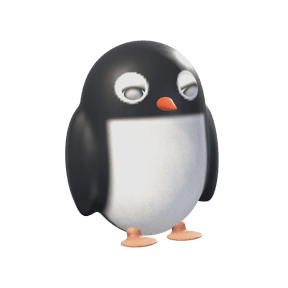
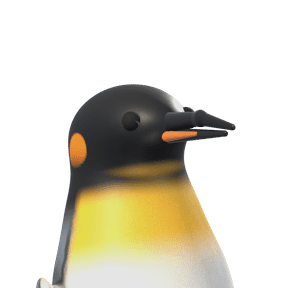
Pinguin als neues Modell: Koenigspinguin-Brustbild
Statt Kegelfigur mit Fuessen ein Brustbild mit echter Anatomie: gestreckter
Kopf, langer geschlossener Schnabel mit orangem Plaettchen, Ohrfleck als
Komma, goldene Kehle, silbergrauer Ruecken, kurzes Gefieder. Ausdruck ueber
die Kopfhaltung, weil schwarze Lider auf schwarzem Kopf nichts tragen.
nase() mit waehlbarer Rasteraufloesung (der Schnabel zackte), Zuschnitt
weiter gefasst, Rahmen neu gemessen.

pruef-alles 9/9.

diff --git a/tools/figuren_rendern/Tiere.swift b/tools/figuren_rendern/Tiere.swift
@@ -259,9 +259,10 @@ func augenEinsetzen(_ wurzel: SCNNode, _ kopf: Koerper, x: Float, y: Float, r: C
 func lider(_ x: Float, _ y: Float, _ z: Float, _ r: Float, weich: Float = 0.10) -> [Form] {
     [-1, 1].map { s in Form(art: .ellipsoid(V(r * 1.15, r * 0.45, r * 0.6)), mitte: V(x * s, y + r * 0.78, z), weich: weich) }
 }
-func nase(_ wurzel: SCNNode, _ formen: [Form], farbe: V, lack: Float = 0.9, rauheit: Float = 0.25) {
+// `n` = Rasterpunkte; schlanke Teile (Pinguinschnabel) brauchen ein feineres Raster, sonst zackt die Kante.
+func nase(_ wurzel: SCNNode, _ formen: [Form], farbe: V, lack: Float = 0.9, rauheit: Float = 0.25, n: Int = 170) {
     let k = Koerper(formen: formen, farbe: { _, _ in farbe })
-    wurzel.addChildNode(glanzKoerper(k, grenze: 2.2, n: 170, rauheit: rauheit, lack: lack))
+    wurzel.addChildNode(glanzKoerper(k, grenze: 2.2, n: n, rauheit: rauheit, lack: lack))
 }
 // Kleine glatte Teile (Zaehne, Zungen), fuer die das Raster der Abstandsfelder zu grob ist.
 func perle(_ mitte: V, _ radien: V, farbe: NSColor, rauheit: CGFloat = 0.3) -> SCNNode {
@@ -1206,31 +1207,69 @@ func vogelFormen(kopf: V = V(0.72, 0.64, 0.68), leib: V = V(0.88, 1.05, 0.80), f
 }
 
 func pinguin() -> (SCNNode, Float, V) {
-    // Pinguin: schwarzer Kopf und Ruecken, weisser Augenring, orangeroter Schnabel, weisser Bauch mit klarer Grenze.
-    let schwarz = hex("#1E2126"), weiss = hex("#F1F1EE"), orange = hex("#E2552A")
-    var formen = vogelFormen(kopf: V(0.70, 0.62, 0.66), leib: V(0.86, 1.10, 0.78))
-    formen.append(Form(art: .ellipsoid(V(0.16, 0.62, 0.10)), mitte: V(-0.84, -0.42, 0.05), weich: 0.10))
-    formen.append(Form(art: .ellipsoid(V(0.16, 0.62, 0.10)), mitte: V(0.84, -0.42, 0.05), weich: 0.10))
-    var k = Koerper(formen: formen, farbe: { p, n in
-        var c = farbeMitRauschen(schwarz, p, 0.06)
-        // weisser Bauch vorn, unterhalb des Kopfes
-        // Klare Grenze: weisser Bauch bis zur Kehle, schwarzer Ruecken und Kopf (am Bild: vorher verwaschen).
-        c = mische(c, farbeMitRauschen(weiss, p, 0.03), glatt(0.16, 0.08, p.y) * glatt(0.12, 0.30, n.z) * glatt(0.66, 0.56, abs(p.x)))
-        // Weisser Augenring wie beim Adeliepinguin; das Band ueber den Scheitel las sich als Streifen.
-        let ring = max(region(p, V(-0.33, 0.48, 0.52), V(0.20, 0.20, 0.30), 0.04), region(p, V(0.33, 0.48, 0.52), V(0.20, 0.20, 0.30), 0.04))
-        c = mische(c, weiss, ring)
+    // Runde 191, neues Modell (Auftrag des Inhabers: realistischer, „egal was es braucht"): Koenigspinguin als
+    // Brustbild statt Kegelfigur. Gestreckter Kopf mit flach abfallender Stirn, langer schlanker Schnabel
+    // (unten mit orangem Plaettchen), orange Ohrflecken, goldene Kehle in die weisse Brust, silbergrauer Ruecken.
+    let schwarz = hex("#15171A"), silber = hex("#7D8894"), weiss = hex("#F5F4EF")
+    let gold = hex("#F3BE48"), orange = hex("#F08B2C")
+    var kopf = Koerper(formen: [
+        Form(art: .ellipsoid(V(0.52, 0.48, 0.80)), mitte: V(0, 0.30, -0.02)),
+        // Gesicht nach vorn-unten: die Stirn faellt flach in den Schnabel ab (gestreckter, flacher Kopf).
+        Form(art: .ellipsoid(V(0.34, 0.27, 0.46)), mitte: V(0, 0.22, 0.50), weich: 0.30),
+    ], farbe: { p, n in
+        var c = farbeMitRauschen(schwarz, p, 0.05)
+        // Ohrfleck: ein Tropfen hinter dem Auge, oben breit, zum Hals hin schmal.
+        for sx: Float in [-1, 1] {
+            // Ohrfleck als Komma: oben breit hinter dem Auge, unten schmal zum Hals.
+            let ohr = max(region(p, V(0.44 * sx, 0.16, -0.06), V(0.20, 0.20, 0.24), 0.05),
+                          max(region(p, V(0.40 * sx, -0.08, 0.02), V(0.14, 0.18, 0.15), 0.05), region(p, V(0.36 * sx, -0.32, 0.14), V(0.11, 0.22, 0.14), 0.05)))
+            c = mische(c, farbeMitRauschen(orange, p, 0.04), ohr)
+        }
+        // Goldene Kehle vorn unter dem Schnabel.
+        c = mische(c, farbeMitRauschen(gold, p, 0.04), glatt(-0.08, -0.20, p.y) * glatt(0.25, 0.55, n.z))
         return c
-    }, rauheit: 0.48, fell: 0.03)
-    // Gefieder: sehr kurze Fellschalen statt glatter Haut (Auftrag „mehr Fotorealismus“).
-    k.haar = haarKarte(k, FellKarte(kopf: 0.012, rumpf: 0.014, nase: V(0, 0.30, 0.80), schnauze: 0.2,
-        augen: augenStellen(k, x: 0.33, y: 0.48), augenR: 0.15, braue: 0), braue: { _ in 0 })
-    k.fellArt = Fell(dichte: 170, dicke: 0.46, aufrecht: 0.18, neigung: 1.9, ursprung: V(0, 0.30, 0.80), wurzel: 0.80, spitze: 1.08, straehnen: 0.04, streuung: 0.06)
-    let w = SCNNode(); w.addChildNode(kopfKnoten(k, grenze: 1.9))
-    nase(w, [Form(art: .rundkegel(V(0, -0.12, 0.46), 0.16, 0.03), mitte: V(0, 0.32, 0.58), stauchung: V(1, 0.72, 1))], farbe: orange, lack: 0.4, rauheit: 0.4)
-    augenEinsetzen(w, k, x: 0.33, y: 0.48, r: 0.15, tiefe: 0.38, iris: NSColor(calibratedRed: 0.22, green: 0.12, blue: 0.06, alpha: 1), pupille: 0.62, aussen: 0.15, ausdruck: Ausdruck(oben: 0.05, unten: 0.08, funke: 1.6))
-    vogelFuesse(w, unten: -1.28, abstand: 0.30, vorn: 0.28, farbe: hex("#E89A7A"), dicke: 0.09, bein: 0.08, zehe: 0.30, breit: true)
-    w.eulerAngles = SCNVector3(0.02, 0.36, 0.06)
-    return (w, 8.2, V(0, 0.05, 0))
+    }, rauheit: 0.50, fell: 0.02)
+    kopf.haar = haarKarte(kopf, FellKarte(kopf: 0.012, rumpf: 0.016, nase: V(0, 0.20, 0.82), schnauze: 0.2,
+        augen: augenStellen(kopf, x: 0.30, y: 0.29), augenR: 0.10, braue: 0), braue: { _ in 0 })
+    kopf.fellArt = Fell(dichte: 180, dicke: 0.46, aufrecht: 0.18, neigung: 1.9, ursprung: V(0, 0.20, 0.82), wurzel: 0.82, spitze: 1.08, straehnen: 0.04, streuung: 0.05)
+    let leib: [Form] = [
+        Form(art: .ellipsoid(V(0.62, 0.72, 0.64)), mitte: V(0, -0.42, -0.10), weich: 0.35),
+        // Die Brust woelbt sich nach vorn — beim Koenigspinguin die goldene „Latz"-Flaeche.
+        Form(art: .ellipsoid(V(0.96, 1.36, 0.92)), mitte: V(0, -1.55, -0.16), weich: 0.35),
+        Form(art: .ellipsoid(V(0.12, 0.74, 0.30)), mitte: V(-0.94, -1.78, -0.30), drehung: simd_quatf(angle: 0.12, axis: V(0, 0, 1)), weich: 0.10),
+        Form(art: .ellipsoid(V(0.12, 0.74, 0.30)), mitte: V(0.94, -1.78, -0.30), drehung: simd_quatf(angle: -0.12, axis: V(0, 0, 1)), weich: 0.10),
+    ]
+    let k = brustbild(kopf, leib, farbe: { p, n in
+        // Ruecken silbergrau, nach oben zum Hals schwarz.
+        var c = mische(farbeMitRauschen(silber, p, 0.06), schwarz, glatt(-0.75, -0.30, p.y))
+        let vorn = glatt(0.10, 0.30, n.z)
+        // Dunkle Trennlinie zwischen Brust und Flanke.
+        c = mische(c, schwarz, glatt(0.02, 0.10, n.z) * glatt(0.22, 0.12, n.z) * glatt(-0.40, -0.80, p.y) * 0.8)
+        // Brust: oben golden, nach unten weiss.
+        let brust = mische(farbeMitRauschen(gold, p, 0.04), farbeMitRauschen(weiss, p, 0.03), glatt(-0.75, -1.25, p.y))
+        c = mische(c, brust, vorn * glatt(-0.20, -0.45, p.y))
+        // Der Ohrfleck laeuft seitlich am Hals hinunter zur goldenen Brust.
+        for sx: Float in [-1, 1] { c = mische(c, orange, region(p, V(0.34 * sx, -0.30, 0.10), V(0.12, 0.30, 0.14), 0.06) * 0.85) }
+        return c
+    })
+    let w = SCNNode(); w.addChildNode(brustKnoten(k))
+    // Oberschnabel lang und schlank, leicht abwaerts; Unterschnabel schwarz mit orangem Plaettchen an der Seite.
+    // Geschlossen und leicht abwaerts gebogen: zwei Stuecke, das vordere staerker geneigt.
+    nase(w, [Form(art: .rundkegel(V(0, -0.07, 0.62), 0.11, 0.06), mitte: V(0, 0.22, 0.86), stauchung: V(0.70, 1, 1), weich: 0.05),
+             Form(art: .rundkegel(V(0, -0.17, 0.46), 0.065, 0.028), mitte: V(0, 0.15, 1.48), stauchung: V(0.70, 1, 1), weich: 0.04)],
+         farbe: hex("#141416"), lack: 0.55, rauheit: 0.35, n: 360)
+    // Unterschnabel dicht darunter, mit dem orangen Plaettchen laengs an der Seite.
+    nase(w, [Form(art: .rundkegel(V(0, -0.16, 0.96), 0.075, 0.026), mitte: V(0, 0.11, 0.86), stauchung: V(0.72, 1, 1), weich: 0.03)],
+         farbe: hex("#1A1A1C"), lack: 0.5, rauheit: 0.4, n: 360)
+    nase(w, [Form(art: .rundkegel(V(0, -0.07, 0.50), 0.05, 0.02), mitte: V(-0.042, 0.095, 0.92), weich: 0.02),
+             Form(art: .rundkegel(V(0, -0.07, 0.50), 0.05, 0.02), mitte: V(0.042, 0.095, 0.92), weich: 0.02)],
+         farbe: hex("#F07A3A"), lack: 0.6, rauheit: 0.3, n: 360)
+    augenEinsetzen(w, kopf, x: 0.30, y: 0.29, r: 0.10, tiefe: 0.36, iris: NSColor(calibratedRed: 0.24, green: 0.13, blue: 0.08, alpha: 1), pupille: 0.62, aussen: 0.15, ausdruck: Ausdruck(oben: 0.06, unten: 0.04, funke: 1.5))
+    // Schwarze Lider auf schwarzem Kopf tragen keinen Ausdruck — beim Pinguin zeigt die Haltung die Stimmung:
+    // muede gesenkt, froh angehoben und leicht schraeg.
+    let haltung: (Float, Float) = STIMMUNG == .muede ? (0.20, 0) : (STIMMUNG == .froh ? (-0.12, 0.10) : (0.05, 0))
+    w.eulerAngles = SCNVector3(haltung.0, 0.48, haltung.1)
+    return (w, 8.4, V(0, -0.15, 0.25))
 }
 
 func papagei() -> (SCNNode, Float, V) {

diff --git a/tools/figuren_holen.py b/tools/figuren_holen.py
@@ -102,7 +102,8 @@ def sichtbar(b, pixel):
 # naeher heran und zum Kopf hin verschoben; Schwanz und Hinterflossen schneidet der Kreis an.
 # (Faktor, Verschiebung x, y als Anteil des Ausschnitts; negativ = nach links/oben)
 NAEHER = {'wal': (1.55, -0.13, 0.02), 'schildkroete': (1.7, -0.02, -0.12), 'delfin': (1.55, -0.12, 0.0),
-          'flamingo': (1.03, 0.20, -0.20), 'rotkehlchen': (1.12, 0.0, 0.0)}
+          'flamingo': (1.03, 0.20, -0.20), 'rotkehlchen': (1.12, 0.0, 0.0),
+          'pinguin': (0.80, -0.04, 0.04)}   # Runde 191: Brustbild mit langem Schnabel, weiter gefasst
 
 
 def zuschneiden(b, h, pixel, rahmen, kennung=''):

diff --git a/docs/ios-huelle-journal.md b/docs/ios-huelle-journal.md
@@ -7,7 +7,7 @@ gehoert ebenfalls hierher — nicht stillschweigend uebersprungen. Neueste Eintr
 
 ---
 
-## ÜBERGABE an die naechste Sitzung (Stand 2026-10-29, nach Runde 190)
+## ÜBERGABE an die naechste Sitzung (Stand 2026-10-29, nach Runde 191)
 
 **Lies NUR diesen Block.** Er genuegt allein; die Eintraege darunter sind Begruendungen zum
 Nachschlagen. Dazu `tools/xcode-CLAUDE.md` (liegt als `ios/App/CLAUDE.md` neben der `.xcodeproj`
@@ -54,7 +54,8 @@ Regeln, die er gesetzt hat:
 
 | Runde | Commit | Inhalt |
 | --- | --- | --- |
-| 190 | (dieser) | Mehr Fotorealismus: Gefieder als Fellschalen, Hase/Dackel/Hunde natuerlicher |
+| 191 | (dieser) | Pinguin als neues Modell: Koenigspinguin-Brustbild, Ausdruck ueber die Haltung |
+| 190 | `20721e9` | Mehr Fotorealismus: Gefieder als Fellschalen, Hase/Dackel/Hunde natuerlicher |
 | 189 | `6b4a1a9` | Goldfisch, fuenf Voegel, Dackel nachgearbeitet; drei Nachthimmel getrennt; Hintergruende Farbe/Hell/Dunkel |
 | 188 | `9994138` | Ausfuehrlicher Test mit denselben Bausteinen wie der normale (Balken, Antwortwort, Meilensteine, Funkeln); Quellenhinweis weg |
 | 187 | `bd1f7bb` | Ausfuehrlicher Test: 116 Aussagen (IPIP-NEO-120 ohne O6), 29 Facetten, Lucenta+ |
@@ -245,7 +246,7 @@ Regeln, die er gesetzt hat:
 
 ### Was offen ist
 
-**Kein laufender Auftrag.** Runden 165–190 sind erledigt und gepusht. Der naechste Auftrag kommt im Gespraech.
+**Kein laufender Auftrag.** Runden 165–191 sind erledigt und gepusht. Der naechste Auftrag kommt im Gespraech.
 
 *Wartet auf eine Entscheidung des Inhabers (aus Runde 179, mit Empfehlung vorgelegt — nicht ungefragt bauen):*
 - **Mindestversion iOS 16.4** statt 15.0 (Empfehlung). Grund: 62× `color-mix()` (erst ab 16.2) ohne Ersatz, Strahlenkranz
@@ -339,6 +340,8 @@ Startbild. Das allererste Startbild zeichnet iOS vor dem App-Start — **nicht n
   (ausser `#myCode`); Teilbild 1080×1350; keine Striche mit runden Enden auf Avatargroesse.
 
 ### Stand der Pruefungen
+
+**Nach Runde 191: ALLE 9 BESTANDEN**: `pruef-nativ` 139, `fehlersuche` ohne Fund.
 
 **Nach Runde 190: ALLE 9 BESTANDEN**: `pruef-nativ` 139, `fehlersuche` ohne Fund.
 
@@ -516,6 +519,27 @@ Bitte. Arbeitsbaum sauber bis auf `ios/App/App.xcworkspace/xcshareddata/` (absic
 Pruefstand: `pruef-alles` 9/9 — `tests` 10 Reihen, `pruef-app` 36, `pruef-nativ` 102, `fehlersuche` 28 ohne Fund.
 
 ---
+
+## Runde 191 — Pinguin als neues Modell (Koenigspinguin), Beispiel fuer weitere Tiere
+
+**Auftrag:** „mach neues Modell, egal was es braucht", beispielhaft mit dem Pinguin. **Art von mir gewaehlt** (Auftrag liess es offen):
+Koenigspinguin — bekannteste Art, Merkmale (Ohrfleck, goldene Kehle, langer Schnabel mit orangem Streifen) lesen sich auch auf
+Avatargroesse als echt. Auf Wunsch leicht auf eine andere Art umzustellen.
+
+**Gebaut** (`pinguin()` in `tools/figuren_rendern/Tiere.swift` ganz neu): Brustbild wie bei den Saeugern statt Kegelfigur mit Fuessen —
+gestreckter, flacher Kopf mit abfallender Stirn, Hals und nach vorn gewoelbte Brust, Flossenansatz. Schnabel lang, leicht abwaerts,
+geschlossen, unten schwarz mit orangem Plaettchen; Ohrfleck als Komma zum Hals; Kehle golden in Weiss verlaufend, silbergrauer Ruecken,
+dunkle Trennlinie. Gefieder als sehr kurze Fellschalen. `figuren_holen.py`: `NAEHER['pinguin'] = (0.80, -0.04, 0.04)` (weiter
+gefasst, sonst Schnabel abgeschnitten), Rahmen am Kopf allein neu gemessen. `nase(…, n:)` neu: Der schlanke Schnabel zackte im
+Raster von 170 Punkten (~0,026 je Zelle) — mit 360 glatt.
+
+**Am Bild gefundene Fehler, der Reihe nach behoben:** Ohrfleck zu weit hinten (nur ein Punkt sichtbar); Schnabel offen wie ein
+gesperrter Schnabel, Plaettchen als Klecks am Ansatz, dann auf dem OBERschnabel; Kopf als Kuppel; Schnabel steckte im Gesicht (zu
+kurz); Gold im Gesicht statt an der Kehle; hinteres Auge ragte aus dem Umriss. **Ausdruecke:** schwarze Lider auf schwarzem Kopf
+tragen nichts — beim Pinguin zeigt die HALTUNG die Stimmung (muede gesenkt, froh angehoben und schraeg), die Lider bleiben dazu.
+
+**Offen:** feine Naht zwischen den zwei Stuecken des Oberschnabels; froh: Schnabelspitze nah am Kreisrand. Dasselbe Vorgehen
+(neues Brustbild statt Ganzkoerper, Merkmale der Art, Rahmen neu) waere der Weg fuer die uebrigen Tiere.
 
 ## Runde 190 — Mehr Fotorealismus bei sieben Tieren
 
